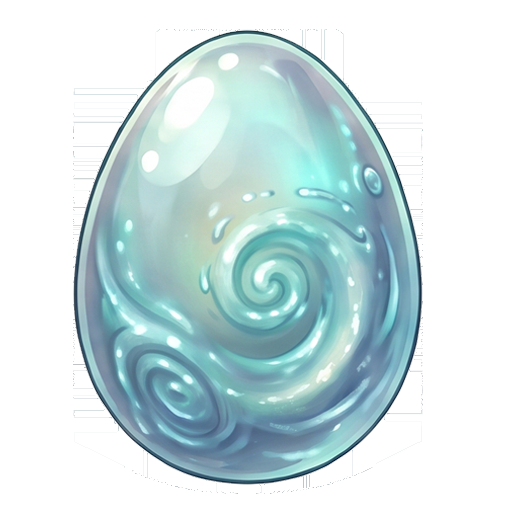
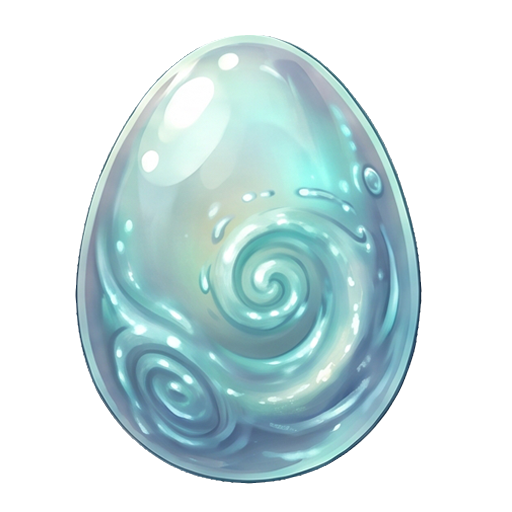
fix(verse): sinkronisasi aset telur terbaru dan hapus teks pusat sahabat belajar pada layar peti

diff --git a/src/pages/student/MyVerse.tsx b/src/pages/student/MyVerse.tsx
@@ -250,11 +250,6 @@ export default function MyVerse() {
               exit={{ opacity: 0, scale: 0.95 }}
               className="flex flex-col items-center text-center py-10"
             >
-              <div className="inline-flex items-center gap-2 px-3.5 py-1.5 rounded-full bg-amber-50 border border-amber-200/80 text-amber-700 text-xs font-bold mb-4 shadow-xs">
-                <Sparkles className="w-3.5 h-3.5 text-amber-500" />
-                Pusat Sahabat Belajar EduVerse
-              </div>
-
               <h1 className="text-2xl md:text-3xl font-extrabold text-slate-800 tracking-tight mb-2">
                 Peti Misterius Verse Ditemukan!
               </h1>
